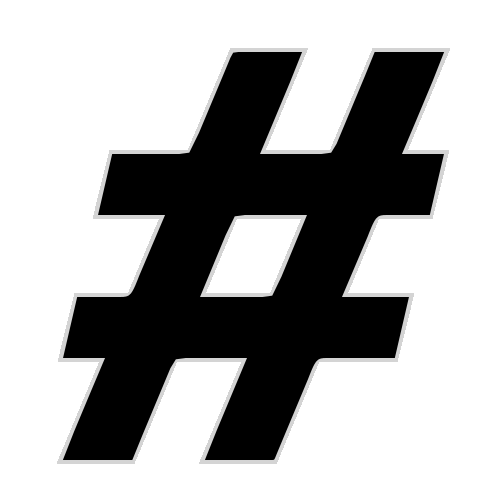
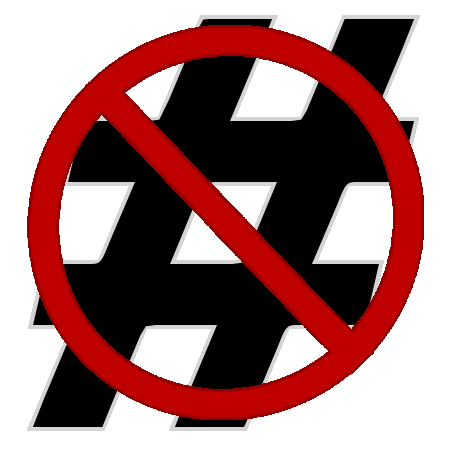
Adding Instagram support

diff --git a/hashnag.js b/hashnag.js
@@ -8,15 +8,17 @@ if (document.domain == "facebook.com") {
 }
 
 if (document.domain == "www.instagram.com") {
-  console.log('whaaaaaaat');
-  /*$("body").bind("DOMSubtreeModified", function() {
-    $('._nk46a a:not(._4zhc5)').remove();
-    /*$('._nk46a a').each(function() {
-      if ($(this).text().charAt(0) == "#") {
-        $(this).replaceWith('');
+  var stripHash = function() {
+    $("body").unbind("DOMSubtreeModified");
+    $('article ul li._nk46a a').each(function() {
+      var hashClassCheck = $(this).attr("class");
+      if ($(this).attr('href').indexOf("/explore/tags/") > -1
+          && typeof hashClassCheck === 'undefined') {
+        var uri = $(this).attr('href');
+        $(this).replaceWith('<a href="' + uri  + '">.</a>');
       }
-    });*/
-    //$('a._58cn').replaceWith('<a href="' + uri  + '">.</a>');
-  });
-
+    });
+    $("body").bind("DOMSubtreeModified", stripHash);
+  };
+  stripHash();
 }
